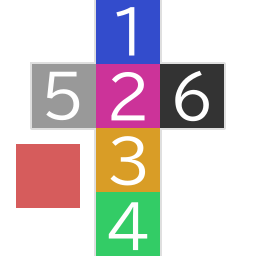
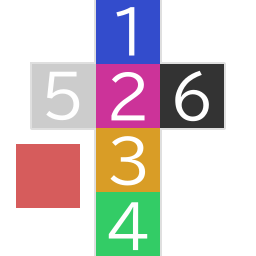
update

Changed region(s): [[0.125, 0.25, 0.375, 0.5]]

diff --git a/FlutterProjects/hello_flutter_cube_simple/lib/main.dart b/FlutterProjects/hello_flutter_cube_simple/lib/main.dart
@@ -26,12 +26,7 @@ class MyApp extends StatelessWidget {
     //   print((c & 0x0000FF) / 256.0);
     // }
     //
-    // cprint('Blue', 0x334ccc);
-    // cprint('Purple', 0xcc3399);
-    // cprint('Orange', 0xd99d26);
-    // cprint('Green', 0x33cc66);
-    // cprint('LtGrey', 0x999999);
-    // cprint('DkGrey', 0x333333);
+    // cprint('LtGrey', 0xcccccc);
 
     return MaterialApp(
       title: 'Flutter Demo',
